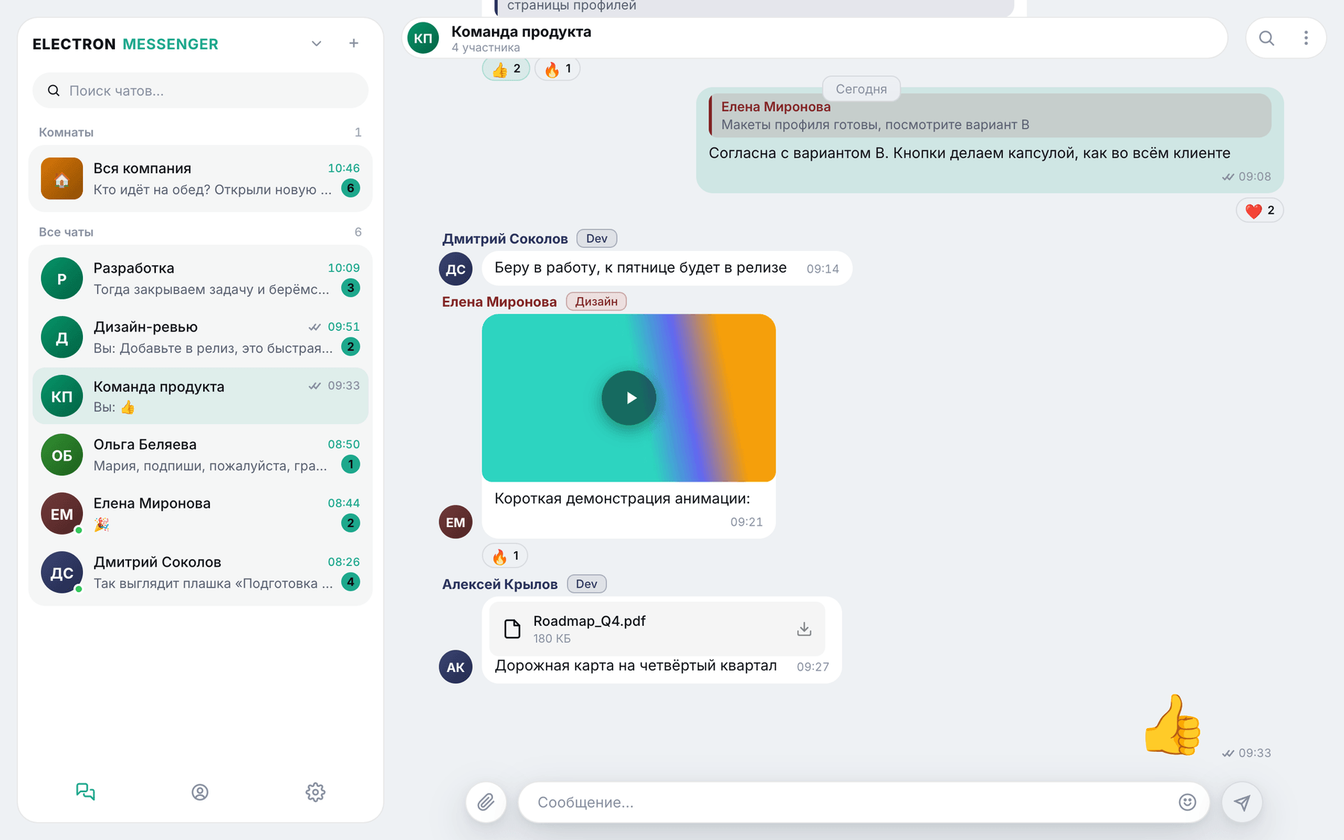
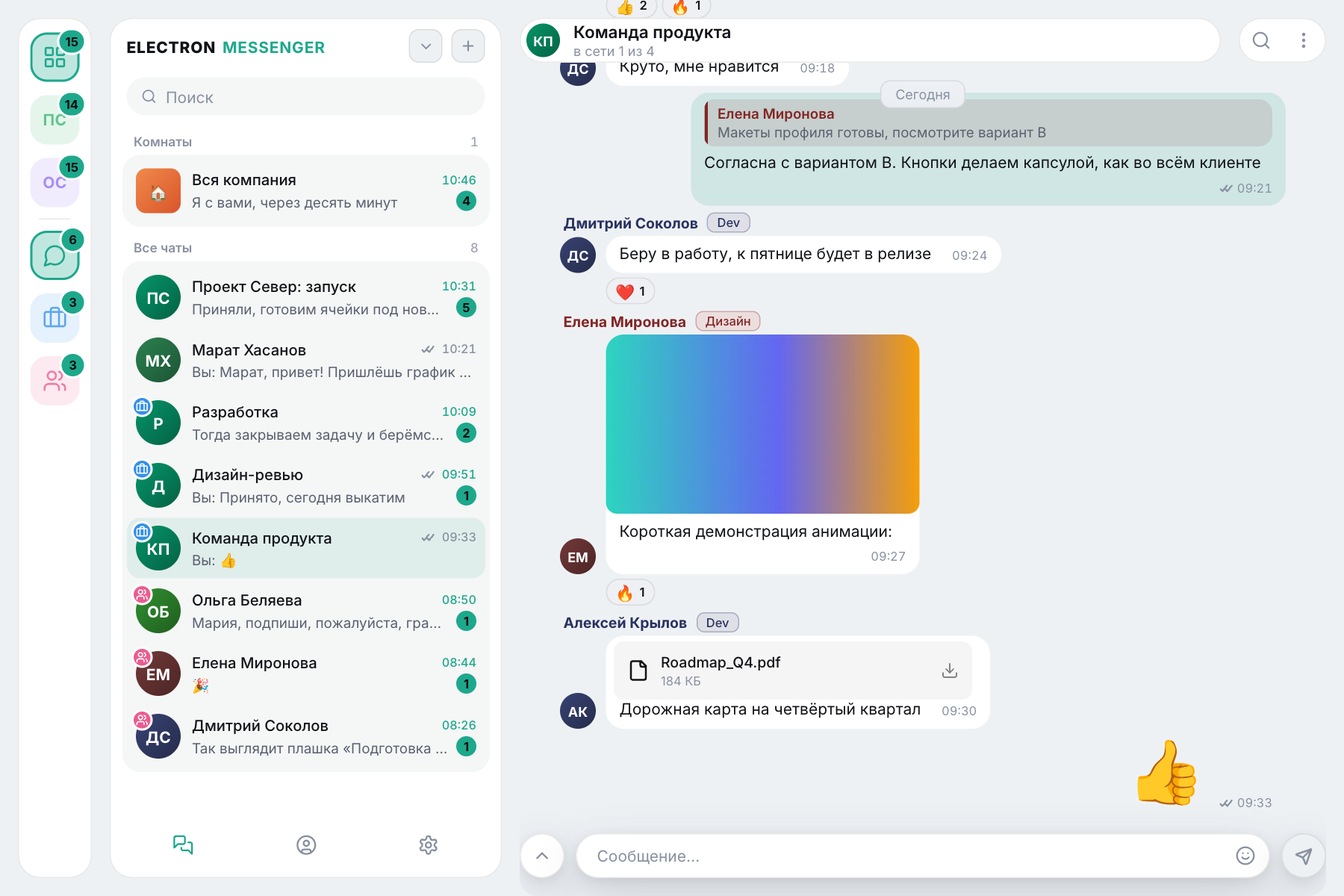
README: актуальные возможности, раздел про федерацию и общие пространства, новые скриншоты
Переписаны возможности (форматирование, медиа, работа без связи, папки, пространства, федерация, мобильные жесты), список админки, пример версии сервера.
Добавлен раздел «Федерация серверов и общие пространства»: подключение, что работает между серверами, общие пространства, звезда и каскад, карта, требования к версиям.
Скриншоты клиента, мобильного клиента и админки сняты заново на демонстрационных данных; добавлены общее пространство, карта федерации и страница пространств.

diff --git a/README.md b/README.md
@@ -2,6 +2,8 @@
 
 Корпоративный мессенджер, который ставится на ваш собственный сервер. Один сервер обслуживает три клиента: десктопное приложение (macOS, Windows, Linux), веб-клиент в браузере и мобильный клиент, который ставится на экран телефона как приложение (PWA). Всё хранится у вас: база SQLite и файлы лежат рядом с сервером.
 
+Несколько серверов можно соединить в федерацию: люди с разных серверов пишут друг другу, сидят в общих группах и комнатах и даже делят общие пространства, как будто они на одном сервере.
+
 ![Клиент в тёмной теме](docs/screenshots/client-dark.png)
 
 ---
@@ -13,8 +15,9 @@
 3. [Установка сервера](#установка-сервера)
 4. [Первый вход и админка](#первый-вход-и-админка)
 5. [Установка клиентов](#установка-клиентов)
-6. [Управление и обновление сервера](#управление-и-обновление-сервера)
-7. [Настройка](#настройка)
+6. [Федерация серверов и общие пространства](#федерация-серверов-и-общие-пространства)
+7. [Управление и обновление сервера](#управление-и-обновление-сервера)
+8. [Настройка](#настройка)
 
 ---
 
@@ -23,33 +26,45 @@
 **Общение**
 - Личные чаты, группы и комнаты с темами (как каналы с отдельными ветками разговоров).
 - Ответы, пересылка, правка и удаление, закрепление, упоминания, реакции любыми эмодзи.
-- Поиск по сообщениям, статусы «доставлено» и «прочитано», «печатает…», присутствие («в сети», «отошёл»).
+- Форматирование (жирный, курсив, код), блоки кода и скрытый текст «Секрет», который показывается точками, пока его не откроют.
+- Превью ссылок: заголовок и картинку страницы забирает сервер, а не устройство отправителя.
+- Поиск по сообщениям, статусы «доставлено» и «прочитано», «печатает…», присутствие («в сети», «отошёл»). Если человек сейчас в сети с телефона, на его аватарке вместо точки значок телефона.
+- Фото, видео и файлы, до десяти вложений в одном сообщении. Лимиты размера и разрешённые форматы задаёт администратор. В переписке фото показываются лёгкими превью, оригинал открывается в просмотре на весь экран; у чата, группы и человека есть раздел «Медиа, файлы и ссылки».
 - GIF из библиотеки Klipy: поиск и отправка прямо из панели смайлов (модуль включается в админке, нужен свой API-ключ Klipy). Файлы у вас не хранятся, в сообщении только ссылка.
-- Фото, видео и файлы. Лимиты размера и разрешённые форматы задаёт администратор.
 - Видео с iPhone (HEVC) сжимается в H.264 прямо на устройстве отправителя, за секунды и без нагрузки на сервер. Если устройство не может, видео перекодирует сервер: по очереди и с низким приоритетом.
+- Работа при плохой связи: сообщение без сети остаётся в переписке с пометкой «Не отправлено» и уходит само, когда связь вернулась (повторная отправка не создаёт дубль); приложение открывается без сети с последним списком чатов и сохранёнными сообщениями.
+- «Без звука» на час, 8 часов, сутки или навсегда; тихие часы и скрытие текста сообщения в уведомлениях (настройки общие для всех устройств человека).
 
 **Приватность и безопасность**
 - Секретные чаты со сквозным шифрованием: сервер хранит только зашифрованные данные.
 - Вход в админку защищается двухфакторным кодом (TOTP).
 - Аудит-лог действий администраторов, блокировка и выход пользователей с любого устройства.
+- Блокировки: заблокированный не может писать в личные сообщения.
+- Всё общение между серверами федерации шифруется собственным туннелем независимо от HTTPS.
 
 **Организация**
-- Рабочие пространства: люди видят друг друга, если у них есть общее пространство. Человек может состоять в нескольких: в каждом он виден и видит остальных.
-- Теги у людей («Dev», «HR», «Склад»), профили с общими группами, блокировки.
-- Системные объявления: окно с важным сообщением всем, кто сейчас в сети.
+- Рабочие пространства: люди видят друг друга, если у них есть общее пространство. Человек может состоять в нескольких, в каждом он виден и видит остальных. Людей из других пространств добавляют в контакты по точному логину.
+- Папки чатов: личные у каждого, одинаковы на всех устройствах человека.
+- Теги у людей («Dev», «HR», «Склад»), профили с общими группами и пространствами.
+- Системные объявления: окно с важным сообщением всем, выбранным пространствам, людям или чатам, кто сейчас в сети.
 - Вебхуки: сообщения от внешних систем (мониторинг, CRM, CI) приходят в чаты как от бота.
 
 **Федерация серверов**
-- Два сервера соединяются друг с другом по ключу активации, и люди пишут друг другу личные сообщения через границу серверов. Адрес человека на другом сервере: `@сервер:логин`.
-- Связь идёт по одному постоянному зашифрованному каналу. Работает, даже если один из серверов за NAT.
+- Серверы соединяются по одноразовому ключу активации с проверкой отпечатка. Адрес человека на другом сервере: `@сервер:логин`.
+- Личные чаты, группы и комнаты с людьми других серверов: сообщения, вложения, реакции, правки, статусы, «печатает…», счётчик «в сети N из M». Работает, даже если один из серверов за NAT.
+- **Общие пространства:** пространство можно сделать общим для нескольких серверов. Люди всех этих серверов видят друг друга в списках, поиске и статусах и могут вступать в группы друг друга без подтверждения.
+- Серверы можно соединять звездой или цепочкой: личные сообщения и файлы идут через промежуточные серверы зашифрованными, они видят только «кто с кем».
+- В админке есть карта серверов и общих пространств.
 
 **Клиенты**
-- Светлая и тёмная темы, акцентные цвета, push-уведомления, значок и меню в трее.
+- Три темы (светлая, тёмная, тёмно-синяя; в мобильном светлая и тёмно-синяя), акценты, push-уведомления, значок и меню в трее.
 - Десктопный клиент обновляется сам, веб и мобильный — вместе с сервером.
+- Мобильный клиент: жесты как в нативных приложениях (свайп назад, свайп по строке чата, свайп по сообщению для ответа), плавные переходы, шторка пространств.
+- Настройка «Отображать пространства»: в баре клиента (под учётными записями и выше папок) и в шторке мобильного появляются «Общий вид» и все ваши пространства. Выбор оставляет в списках чатов и контактов только людей из пространства и чаты с ними.
 
 **Админка** (`/admin`, подстраивается под телефон)
-- Главная: нагрузка сервера, отклик, кто в сети, активность по часам, хроника событий.
-- Пользователи, комнаты, чаты и группы, подключённые клиенты (принудительное обновление и выход), файлы, объявления, вебхуки, федерации.
+- Главная: нагрузка сервера, отклик, кто в сети, активность по часам, хроника событий, сводка по федерации.
+- Пользователи, пространства (в том числе общие), комнаты, чаты и группы, подключённые клиенты (принудительное обновление и выход), уведомления, файлы, объявления, вебхуки, модули, аудит-лог, федерации (соединения и карта).
 - Резервные копии и восстановление, настройки, история релизов, обновление сервера в один клик.
 
 ---
@@ -58,17 +73,23 @@
 
 ### Десктопный клиент
 
+Пространства и папки в баре слева: «Общий вид» и пространства выше, папки ниже.
+
 | Светлая тема | Комнаты с темами |
 |:---:|:---:|
 | ![Светлая тема](docs/screenshots/client-light.png) | ![Темы комнаты](docs/screenshots/client-topics.png) |
 
+### Общее пространство и люди с других серверов
+
+| Группа с людьми других серверов | Профиль человека |
+|:---:|:---:|
+| ![Выбрано общее пространство](docs/screenshots/client-spaces.png) | <img src="docs/screenshots/client-profile.png" width="360" alt="Профиль"> |
+
 ### Мобильный клиент
 
+Список чатов с кнопкой пространства и папками, шторка пространств (список сдвигается до середины окна), переписка.
+
 ![Мобильный клиент](docs/screenshots/mobile.png)
-
-### Профиль человека
-
-<p align="center"><img src="docs/screenshots/client-profile.png" width="520" alt="Профиль"></p>
 
 ### Админка
 
@@ -76,7 +97,11 @@
 
 ![Пользователи](docs/screenshots/admin-users.png)
 
-> На скриншотах демонстрационные данные: вымышленные люди и чаты.
+![Пространства](docs/screenshots/admin-spaces.png)
+
+![Карта федерации](docs/screenshots/admin-map.png)
+
+> На скриншотах демонстрационные данные: вымышленные люди, чаты и серверы.
 
 ---
 
@@ -129,7 +154,7 @@ sudo firewall-cmd --reload
 
 ### HTTPS и reverse-proxy (рекомендуется)
 
-Для работы в интернете поставьте перед сервером nginx (или любой другой прокси) с сертификатом. Нужны два пункта: передача WebSocket и разрешение на крупные файлы.
+Для работы в интернете поставьте перед сервером nginx (или любой другой прокси) с сертификатом. Нужны два пункта: передача WebSocket и разрешение на крупные файлы. Через тот же WebSocket работают и клиенты, и соединения федерации (`/fed`), поэтому отдельная настройка для федерации не нужна.
 
 ```nginx
 server {
@@ -170,6 +195,7 @@ server {
 3. Создать комнату для всей команды («Комнаты» → «Создать комнату»).
 4. Задать лимиты файлов и остальные параметры («Настройки»).
 5. Включить двухфакторную защиту входа в админку (по желанию).
+6. При необходимости разделить людей по пространствам («Пространства») или подключить другие серверы («Федерации»).
 
 ---
 
@@ -205,6 +231,52 @@ xattr -d com.apple.quarantine /Applications/Electron.app
 
 ---
 
+## Федерация серверов и общие пространства
+
+Федерация соединяет независимые серверы: у каждого своя база, свои пользователи и свой администратор. Управлять чужим сервером через соединение нельзя: только обмениваться сообщениями между людьми.
+
+### Подключение двух серверов
+
+Все действия в админке, раздел **«Федерации»**.
+
+1. На каждом сервере один раз задайте **уникальный идентификатор** (латиница, цифры, точка, дефис; потом он не меняется, входит в адрес людей) и **имя системы** (его видят только администраторы партнёров).
+2. На одном из серверов создайте **ключ активации** (нужен адрес для соединений: по нему к вам подключится партнёр). Ключ одноразовый и действует 24 часа.
+3. На втором сервере выберите «У меня есть ключ» и вставьте его. Сверьте **отпечаток ключа** с администратором партнёра по телефону или лично и подтвердите.
+
+Соединение держит один постоянный зашифрованный WebSocket на `/fed`. Подключается всегда та сторона, которая вводила ключ, поэтому серверу за NAT открытый адрес не нужен. Всё общение шифруется собственным туннелем независимо от HTTPS. Соединение можно приостановить или удалить, пока оно приостановлено, сообщения ждут в очереди (до 14 дней).
+
+### Что работает между серверами
+
+- Контакты по адресу `@сервер:логин` и личные чаты, ответы, пересылка, правки, удаления, реакции, статусы «доставлено» и «прочитано».
+- Группы и комнаты с людьми других серверов: группу создаёт и ведёт сервер-хозяин, у остальных серверов её зеркало. Человека приглашают, и он сам соглашается (в комнаты людей других серверов приглашает администратор по адресу `@сервер:логин`).
+- Вложения и аватарки копируются на ваш сервер, размеры и форматы проверяются по вашим настройкам.
+- Лимиты и защита: не больше N новых переписок и приглашений в группы в час с одного сервера, переключатель приёма приглашений в группы («Федерации»).
+- У людей и групп с другого сервера в клиентах значок земного шара. Названия серверов видят только администраторы.
+
+### Общие пространства
+
+Пространство можно сделать **общим** для нескольких серверов. Люди всех этих серверов, добавленные в него, видят друг друга в списках, поиске и статусах, пишут друг другу и вступают в группы друг друга без подтверждения, как будто они на одном сервере.
+
+1. На сервере-хозяине откройте **«Пространства»**, включите переключатель **«Общее»** у нужного пространства (у «Основного» его нет) и нажмите **«Серверы»**.
+2. Пригласите подключённый сервер (нужно прямое соединение с ним, сервер должен быть обновлён).
+3. Администратор второго сервера в «Пространствах» принимает приглашение: пространство появляется у него.
+4. **Каждый сервер сам добавляет в пространство своих людей** в их профилях («Пространства» человека) и видит чужих. Убрать можно только своих людей; название пространства задаёт хозяин.
+5. Хозяин может убрать сервер из пространства целиком или выключить «Общее»; сервер может выйти сам. У вышедших пространство остаётся обычным, переписки сохраняются.
+
+**Звезда и каскад.** Хозяин приглашает только серверы, с которыми он соединён напрямую. Участник расширяет пространство на своего соседа так: просит хозяина, тот одобряет, участник приглашает. Получается дерево серверов: звезда, цепочка или то и другое. Между серверами без прямого соединения работают **сквозные шифрованные каналы**: личные сообщения, файлы и статусы идут через промежуточные серверы, которые видят только «кто с кем», размер и время. Ключ дальнего сервера приходит через хозяина пространства; администратор может **сверить отпечаток** вручную (помечается «проверен»).
+
+В клиентах включите **«Отображать пространства»** (десктопный и веб: «Настройки → Папки»; мобильный: «Настройки»), чтобы выбирать пространство в баре или свайпом вправо по списку чатов в мобильном.
+
+### Карта федерации
+
+В «Федерациях» вкладка **«Карта»**: серверы с именами, соединения, цвета общих пространств, состояние линий и маршрут до выбранного сервера. Серверы двигаются мышью (раскладка запоминается в браузере), колесо мыши меняет масштаб, фон двигается перетаскиванием. Карта у всех серверов общего пространства одна: её собирает хозяин. Свои остальные подключения другим серверам не показываются.
+
+### Требования
+
+Серверы должны быть обновлены до версии с нужной возможностью: группы и комнаты с людьми других серверов (сервер 2.7+), общие пространства (2.10+), теги людей из них (2.10.3+). Более старые серверы приглашение в общее пространство получить не могут.
+
+---
+
 ## Управление и обновление сервера
 
 Команда `electron` в консоли открывает панель управления:
@@ -216,7 +288,7 @@ electron
 ```
 ●  Работает
 
-    Версия        2.2.16
+    Версия        2.10.4
     Порт          3000
 
   [1] Остановить    [2] Перезапустить
@@ -225,7 +297,7 @@ electron
   [0] Выйти
 ```
 
-**[3] Обновить** скачивает последнюю версию с GitHub и перезапускает сервер без потери данных. Обновить сервер можно и из админки (раздел «Главная» или «Релизы»).
+**[3] Обновить** скачивает последнюю версию с GitHub и перезапускает сервер без потери данных. **[6]** делает то же и дополнительно переустанавливает зависимости (`npm install`). Обновить сервер можно и из админки (раздел «Главная» или «Релизы»).
 
 Стандартные команды systemd:
 
@@ -257,7 +329,7 @@ systemctl daemon-reload
 systemctl restart electron
 ```
 
-Остальное (лимиты вложений, срок хранения файлов, время на правку сообщений, федерация, рабочие пространства) настраивается в админке.
+Остальное (лимиты вложений, срок хранения файлов, время на правку сообщений, федерация, пространства, модули, резервные копии) настраивается в админке.
 
 ---
 
